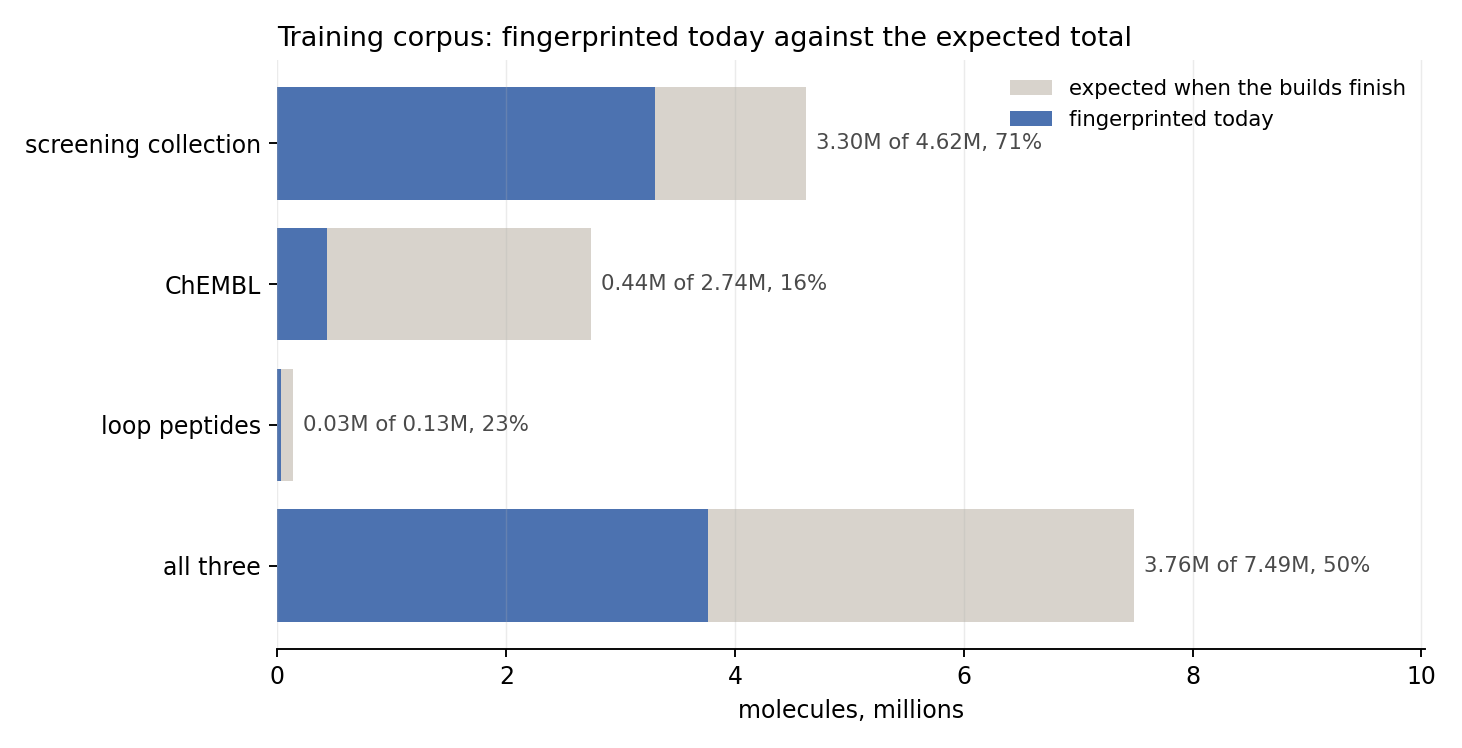
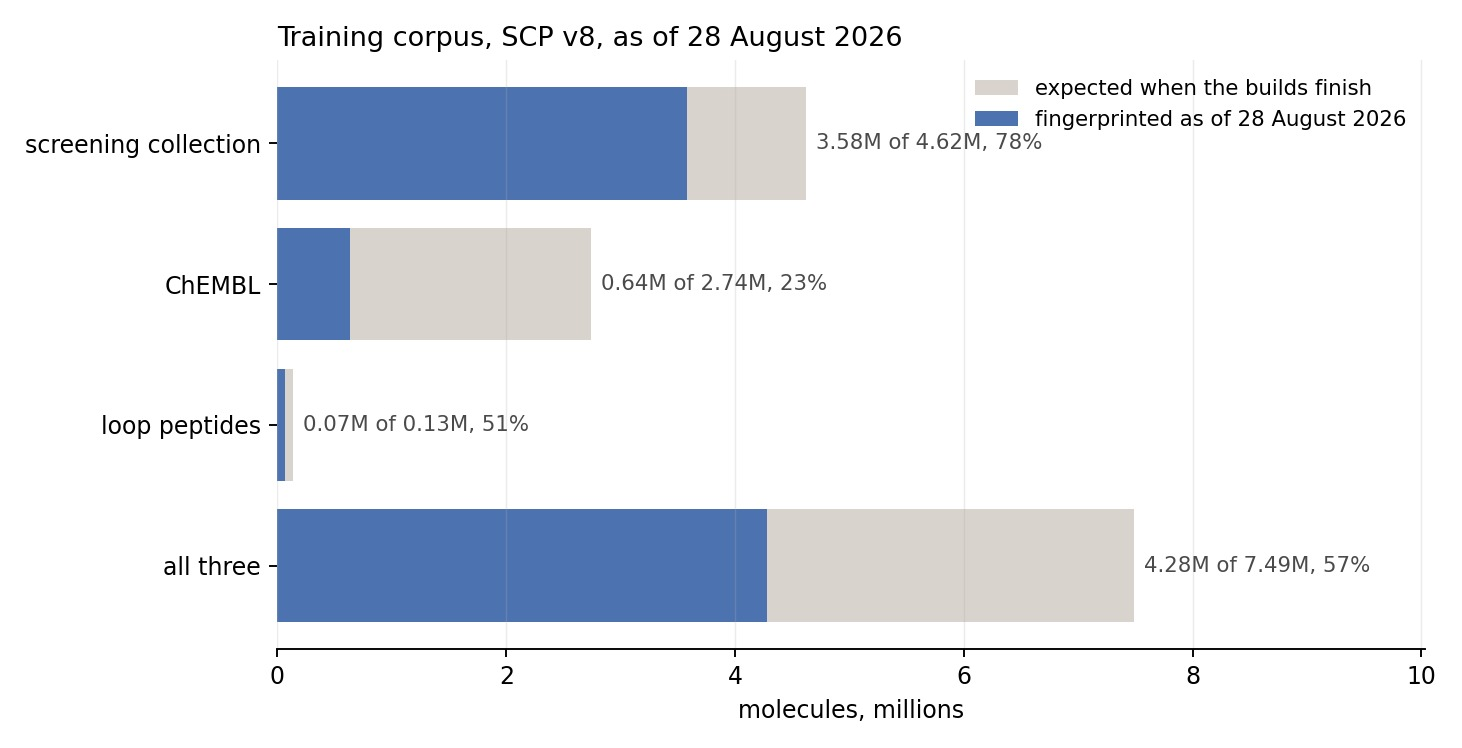
SCP v8 is the current model: README, figures and worked examples
The How it works figure, the fidelity-by-population panels, the per-molecule
MCC distribution, the 2D-independence panel and the corpus progress bars are
all regenerated on SCP v8 and match the 29 August 2026 preprint draft, which is
the ground truth for every figure here.

Every quoted number is re-measured on v8 rather than carried over. The worked
examples move: estradiol against diethylstilbestrol goes 0.479 to 0.680,
saquinavir against indinavir 0.859 to 0.897, paracetamol sets 47 pharmacophores
rather than 46.

v8 trained on a 4,282,423-molecule sealed snapshot, 4,239,599 of them used for
gradient updates, against 3,724,667 for the release it replaces. Same
architecture: 2,059 inputs, hidden 1,024 and 512, 10,549 outputs, 8,045,877
parameters. First model trained on the GPU.

The superseded release drops out of the weights table and into an archive on
the model page. It stays downloadable and its checksum stays in the
append-only SHA256SUMS, so older results remain reproducible, but it is no
longer presented beside the current model.

The head-to-head table is measured on ONE common held-out set that neither
model was trained on. Two separate post-snapshot runs are not a head to head:
each model draws its own set, which invented a peptide regression that does not
exist.

Claude-Session: https://claude.ai/code/session_018yuwM9UHB8D84Z4ULxPpUu

diff --git a/README.md b/README.md
@@ -65,9 +65,9 @@ what scaffold hopping looks like from inside the descriptor.*
 ensemble and runs the reference calculation over it. PharmCast predicts the same
 ensemble record from the two dimensional structure and skips the ensemble
 entirely. Panel E is saquinavir against indinavir, two HIV-1 protease
-inhibitors, scored by PharmCast SCP v7: the reference calculation gives a
-pharmacophoric similarity of 0.84 and PharmCast predicts 0.86, where a two
-dimensional Morgan Tanimoto puts the same pair at 0.30. That gap is the whole
+inhibitors, scored by PharmCast SCP v8: the reference calculation gives a
+pharmacophoric similarity of 0.841 and PharmCast predicts 0.897, where a two
+dimensional Morgan Tanimoto puts the same pair at 0.303. That gap is the whole
 point of the descriptor. The network is 2,059 inputs, hidden layers of 1,024 and
 512, and one output unit per pharmacophore, 10,549 in total, for 8,045,877
 parameters.*
@@ -108,33 +108,60 @@ checksummed, from **<https://pharmcast.ai/models>**.
 
 | Model | Endpoint | SHA-256 |
 |---|---|---|
-| **PharmCast SCP v7** (current) | [`/models/pharmcast_scp_v7.pt`](https://pharmcast.ai/models/pharmcast_scp_v7.pt) | `ad5aee5c…0b72d4aa8` |
+| **PharmCast SCP v8** (current) | [`/models/pharmcast_scp_v8.pt`](https://pharmcast.ai/models/pharmcast_scp_v8.pt) | `d1389037…ac8f42ab5` |
 | *(all releases, append-only)* | [`/models/SHA256SUMS`](https://pharmcast.ai/models/SHA256SUMS) | n/a |
 
+Superseded releases move to the **[archive](https://pharmcast.ai/models/#archive)**
+on the model page. They stay downloadable and their checksums stay in
+`SHA256SUMS`, so a result computed against one remains reproducible; they are
+not what new work should use.
+
 ```bash
-curl -O https://pharmcast.ai/models/pharmcast_scp_v7.pt
+curl -O https://pharmcast.ai/models/pharmcast_scp_v8.pt
 curl -O https://pharmcast.ai/models/SHA256SUMS
 shasum -a 256 -c SHA256SUMS                      # macOS / Linux
-certutil -hashfile pharmcast_scp_v7.pt SHA256    # Windows
+certutil -hashfile pharmcast_scp_v8.pt SHA256    # Windows
 ```
 
-**SCP v7 is the served and published model.** Earlier checkpoints are not
-distributed. Their checksums remain in `SHA256SUMS`, which is append-only, so a
+**SCP v8 is the current model.** Every number and every figure below is v8
+unless it is explicitly labelled otherwise. The previous release stays
+downloadable so that results computed against it remain reproducible, but it is
+not the subject of this document. Checkpoints older than that are not
+distributed; their checksums remain in `SHA256SUMS`, which is append-only, so a
 copy someone already holds still verifies.
 
-Everything measured below is a measurement of **SCP v7**, on molecules
-fingerprinted after its training corpus was sealed, which the model therefore
-cannot have seen.
+**Scores move between releases**, sometimes a long way, so quote the model
+alongside any number you take from here.
 
-On **25 approved-drug pairs with full reference pfpall ensembles** (100 ETKDGv3
-conformers, UFF relaxed, native binary):
+### What changed in v8
 
-| | mean abs. error | median abs. error | mean signed error |
-|---|---:|---:|---:|
-| **SCP v7** | **0.043** | **0.031** | +0.030 |
+Same architecture as v7 — 2,059 inputs, hidden layers of 1,024 and 512, 10,549
+outputs, 8,045,877 parameters — trained on a larger corpus. The snapshot was
+4,282,423 molecules (3,579,209 screening collection, 635,514 ChEMBL, 67,700
+peptides), of which 1% was held out as a molecular-weight-stratified stopping
+set, leaving 4,239,599 for gradient updates. 100 epochs; the epoch-66 weights
+were restored as the best stopping loss.
 
-The model reads slightly high. On formoterol/olodaterol the reference is 0.805
-and v7 says 0.799.
+It is also the first PharmCast model trained on the GPU (Apple MPS) rather than
+the CPU.
+
+**Against the model it replaces**, head to head on one common held-out set that
+neither was trained on, 5,000 molecules per population:
+
+| Population | Ranking acc. | Median error | Pearson *r* | Median MCC |
+|---|---:|---:|---:|---:|
+| Catalogue chemistry | 0.929 → **0.930** | 0.0160 → **0.0156** | 0.9751 → **0.9760** | 0.9077 → **0.9083** |
+| Loop peptides | 0.938 → **0.944** | 0.0200 → **0.0189** | 0.9752 → **0.9789** | 0.8964 → 0.8946 |
+| ChEMBL, activity backed | 0.880 → **0.889** | 0.0271 → **0.0245** | 0.9244 → **0.9366** | 0.8588 → **0.8685** |
+
+v8 is ahead on ranking accuracy, median error and Pearson *r* in every
+population. The single metric where it is not is per-molecule MCC on loop
+peptides, 0.8946 against 0.8964. The clearest gain is ChEMBL, where the corpus
+grew 46%.
+
+*The 25-approved-drug-pair test against full reference pfpall ensembles has not
+been re-run since v8 shipped; its last measurement was on the previous release
+and is omitted here rather than presented as current.*
 
 **A published checkpoint is never replaced in place.** A new release is added
 beside the old ones and `SHA256SUMS` is append-only, so a script pinned to a URL
@@ -148,21 +175,21 @@ Everything below is the command line. Install, download a model, run.
 ```bash
 pip install -e .
 # weights are served from the site, not committed; verify what you got
-curl -LO https://pharmcast.ai/models/pharmcast_scp_v7.pt
+curl -LO https://pharmcast.ai/models/pharmcast_scp_v8.pt
 curl -LO https://pharmcast.ai/models/SHA256SUMS
-shasum -a 256 -c SHA256SUMS 2>/dev/null | grep pharmcast_scp_v7
+shasum -a 256 -c SHA256SUMS 2>/dev/null | grep pharmcast_scp_v8
 ```
 
 Then fingerprint a file of SMILES:
 
 ```bash
-pharmcast --model pharmcast_scp_v7.pt fp --in examples/data/molecules.smi --out molecules.pfp
+pharmcast --model pharmcast_scp_v8.pt fp --in examples/data/molecules.smi --out molecules.pfp
 ```
 
 Compare two molecules:
 
 ```bash
-pharmcast --model pharmcast_scp_v7.pt sim \
+pharmcast --model pharmcast_scp_v8.pt sim \
   "C[C@]12CC[C@H]3[C@H](CCc4cc(O)ccc34)[C@@H]1CC[C@@H]2O" \
   'CC/C(=C(/CC)c1ccc(O)cc1)c1ccc(O)cc1'
 ```
@@ -170,14 +197,14 @@ pharmcast --model pharmcast_scp_v7.pt sim \
 See the bits:
 
 ```bash
-pharmcast --model pharmcast_scp_v7.pt bits "CC(=O)Nc1ccc(O)cc1" --width 120
+pharmcast --model pharmcast_scp_v8.pt bits "CC(=O)Nc1ccc(O)cc1" --width 120
 pfp2bits molecules.pfp --format positions
 ```
 
 And ask the model what it is:
 
 ```bash
-pharmcast --model pharmcast_scp_v7.pt card
+pharmcast --model pharmcast_scp_v8.pt card
 ```
 
 ## Worked examples
@@ -187,10 +214,10 @@ path and prints its own output; nothing needs editing first.
 
 ```bash
 cd examples
-./01_fingerprint.sh  /path/to/pharmcast_scp_v7.pt   # SMILES file -> native .pfp
-./02_similarity.sh   /path/to/pharmcast_scp_v7.pt   # 3D vs 2D similarity, three pairs
-./03_bits.sh         /path/to/pharmcast_scp_v7.pt   # fingerprints -> ones and zeros
-./04_model_card.sh   /path/to/pharmcast_scp_v7.pt   # corpus and applicability domain
+./01_fingerprint.sh  /path/to/pharmcast_scp_v8.pt   # SMILES file -> native .pfp
+./02_similarity.sh   /path/to/pharmcast_scp_v8.pt   # 3D vs 2D similarity, three pairs
+./03_bits.sh         /path/to/pharmcast_scp_v8.pt   # fingerprints -> ones and zeros
+./04_model_card.sh   /path/to/pharmcast_scp_v8.pt   # corpus and applicability domain
 ```
 
 `02_similarity.sh` is the one to run first. It scores three pairs **both ways**,
@@ -199,16 +226,17 @@ alone does not tell you anything:
 
 ```
                                       3D (PharmCast)   2D (Morgan)
-  estradiol / diethylstilbestrol      pharmacophore 0.479    2D 0.163
-  aspirin / salicylate                pharmacophore 0.379    2D 0.448
+  estradiol / diethylstilbestrol      pharmacophore 0.680    2D 0.163
+  aspirin / salicylate                pharmacophore 0.358    2D 0.448
   caffeine / ibuprofen                pharmacophore 0.000    2D 0.087
 ```
 
-*Numbers above are real output from `02_similarity.sh` on **SCP v7**, run
-27 August 2026. They move with the model: the same three pairs on the withdrawn
-SP v4 gave 0.5062, 0.4775 and 0.0000, and that stale transcript sat in this
-README until it was re-run. If your output differs, check the checkpoint's
-sha256 and your RDKit version before anything else.*
+*Numbers above are real output from `02_similarity.sh` on **SCP v8**, run
+28 August 2026. They move with the model, and the estradiol pair moved a long
+way: v7 gave 0.479, 0.379 and 0.000 for these three, and the withdrawn SP v4
+gave 0.5062, 0.4775 and 0.0000. A stale transcript sat in this README once
+already. If your output differs, check the checkpoint's sha256 and your RDKit
+version before anything else.*
 
 Estradiol and diethylstilbestrol are unrelated in 2D and bind the same receptor.
 That gap between the columns is the scaffold hop, and it is the whole reason to
@@ -265,37 +293,40 @@ number derived from different typing would be worse than writing none.
 
 ```
 $ pfp2bits library.pfp --width 120
->paracetamol  set=46/10549  version=v1.6  mw=151.2  heavy=11  bits=46  rotb=1  nconf=100
+>paracetamol  set=47/10549  version=v1.6  mw=151.2  heavy=11  bits=47  rotb=1  nconf=100
 111000101000100001000000000000000000001000000000000000000000000000000000000000000000111000110100011000001000000000000000
 ```
 
 It loads no model, because the fingerprints are already in the file.
 
-*Bit counts above are **SCP v7**, 27 August 2026. `--width 120` prints the first
+*Bit counts above are **SCP v8**, 28 August 2026. `--width 120` prints the first
 120 of 10,549 pharmacophores, so it is a prefix and not a short fingerprint —
 the same molecule on <https://pharmcast.ai/fingerprint.html> prints all 10,549
-and begins with these same 120 characters. The counts move with the model: the
-withdrawn SP v4 set 43 pharmacophores here rather than 46.*
+and begins with these same 120 characters. The counts move with the model: v7 set 46
+pharmacophores here and the withdrawn SP v4 set 43.*
 
 ---
 
 ## Accuracy
 
-**PharmCast SCP v7**, measured on molecules fingerprinted after its training
-corpus was sealed, so the model cannot have seen them. 900 molecules and 1,200
-pairs per population.
+**PharmCast SCP v8**, measured on molecules fingerprinted after its training
+corpus was sealed, so the model cannot have seen them. 5,000 molecules per
+population, all pairs within each.
 
-| Population | Pairs | Median error | Pearson *r* | Within 0.05 |
-|---|---:|---:|---:|---:|
-| Catalogue chemistry | 1,200 | 0.017 | 0.974 | 89.3% |
-| Loop peptides | 1,200 | 0.019 | 0.972 | 84.8% |
-| ChEMBL, activity backed | 1,200 | 0.024 | 0.935 | 78.7% |
-| **All three combined** | **3,600** | **0.020** | **0.968** | **84.2%** |
-| *Reference against itself* | | *0.006* | *0.995* | *ceiling* |
+| Population | Pairs | Ranking acc. | Median error | Pearson *r* | Within 0.05 |
+|---|---:|---:|---:|---:|---:|
+| Catalogue chemistry | 12,497,500 | 0.930 | 0.016 | 0.976 | 91.5% |
+| Loop peptides | 12,497,500 | 0.943 | 0.019 | 0.979 | 84.2% |
+| ChEMBL, activity backed | 12,497,500 | 0.889 | 0.025 | 0.936 | 77.9% |
+| **All three combined** | **37,492,500** | | **0.019** | **0.972** | **84.5%** |
+| *Reference against itself* | | | *0.006* | *0.995* | *ceiling* |
 
-Per fingerprint rather than per pair, over 30,000 held-out catalogue molecules:
-**median MCC 0.909**, mean 0.898, against a ligand-blind baseline of 0.602. The
-model sets 543.6 pharmacophores on average where the reference sets 540.5.
+Ranking accuracy is the fraction of molecule triples the model orders the same
+way the reference does, exact ties excluded.
+
+Per fingerprint rather than per pair, on the same held-out molecules: **median
+MCC 0.909** for catalogue chemistry, 0.894 for loop peptides and 0.868 for
+ChEMBL.
 
 That ceiling row sets the scale. Rebuilding the same molecules with a different
 embedding seed reproduces pair similarity to 0.006 at *r* 0.995, so the
@@ -303,17 +334,18 @@ reference calculation agrees with itself an order of magnitude more tightly than
 PharmCast agrees with it. **The ground truth is not the problem**, and 0.006 is
 the floor no surrogate can beat.
 
-![Predicted against real pairwise PFP Tanimoto for PharmCast SCP v7, coloured by population: catalogue chemistry, ChEMBL activity backed, and loop peptides, all following the diagonal](assets/fidelity-by-population.jpg)
+![Predicted against real pairwise PFP Tanimoto for PharmCast SCP v8, coloured by population: catalogue chemistry, ChEMBL activity backed, and loop peptides, all following the diagonal](assets/fidelity-by-population.jpg)
 
-*PharmCast SCP v7. Predicted against real pairwise similarity on held out
+*PharmCast **SCP v8**. Predicted against real pairwise similarity on held out
 molecules, by population. The dashed line is exact agreement. Catalogue
 chemistry and loop peptides sit tight to it; ChEMBL compounds are the widest of
 the three.*
 
-![Per-molecule Matthews correlation coefficient between the predicted and the real fingerprint for PharmCast SCP v7](assets/per-molecule-mcc.jpg)
+![Per-molecule Matthews correlation coefficient between the predicted and the real fingerprint for PharmCast SCP v8](assets/per-molecule-mcc.jpg)
 
 *How closely each individual predicted fingerprint matches the real one, as the
-Matthews correlation coefficient per molecule.*
+Matthews correlation coefficient per molecule. **SCP v8**, median 0.909 on
+catalogue chemistry; 0.894 on loop peptides and 0.868 on ChEMBL.*
 
 ### It is not re-deriving 2D similarity
 
@@ -322,10 +354,8 @@ Matthews correlation coefficient per molecule.*
 *Predicted against real pairwise similarity, coloured by two dimensional Morgan
 similarity, green for the most dissimilar pairs through red for the least.
 Agreement does not depend on 2D similarity, so the model is predicting three
-dimensional feature geometry rather than restating its own input. PharmCast SCP
-v7 on 5,000 held-out screening collection molecules, 24,664 pairs stratified
-into five 2D bands. Pearson within the bands is 0.972, 0.973, 0.976, 0.978 and
-0.973 from the least 2D similar to the most. That flatness is the claim the
+dimensional feature geometry rather than restating its own input. PharmCast **SCP v8** on held-out molecules stratified into five 2D bands. Pearson within the bands is 0.973, 0.976, 0.978, 0.980 and
+0.975 from the least 2D similar to the most. That flatness is the claim the
 panel makes.*
 
 ## Applicability domain: read this before trusting a score
@@ -358,17 +388,17 @@ A model card that hides its failure mode is worse than no model card.
 
 Where the three corpora stand today:
 
-| Corpus | Fingerprinted today | Expected total | Complete |
+| Corpus | At the SCP v8 snapshot | Expected total | Complete |
 |---|---:|---:|---:|
-| Screening collection | 3,296,466 | 4,617,292 | 71.4% |
-| ChEMBL | 435,314 | 2,737,190 † | 15.9% |
-| Loop peptides | 30,800 | 132,878 | 23.2% |
-| **All three** | **3,762,580** | **7,487,360** | **50.3%** |
+| Screening collection | 3,579,209 | 4,617,292 | 77.5% |
+| ChEMBL | 635,514 | 2,737,190 † | 23.2% |
+| Loop peptides | 67,700 | 132,878 | 50.9% |
+| **All three** | **4,282,423** | **7,487,360** | **57.2%** |
 
-![Bar chart of each corpus, fingerprinted today against the expected total: screening collection 71.4%, ChEMBL 15.9%, loop peptides 23.2%](assets/corpus-progress.jpg)
+![Bar chart of each corpus at the SCP v8 sealed snapshot against the expected total: screening collection 77.5%, ChEMBL 23.2%, loop peptides 50.9%](assets/corpus-progress.jpg)
 
-**The finished training set is expected to be 7,487,360 molecules**, about twice
-the size of the corpus SCP v7 was trained on. **Half of it is fingerprinted
+**The finished training set is expected to be 7,487,360 molecules**, and SCP v8
+was trained on 4,282,423 of them. **Well over half of it is fingerprinted
 today.** The growth is not evenly distributed: the screening
 collection is most of the mass, while ChEMBL is the least complete and grows the
 most in proportion. Every molecule is fingerprinted with
@@ -389,33 +419,37 @@ same 6,000-molecule sample from each, because nearest-neighbour similarity rises
 with sample size and unequal samples cannot be compared.* ChEMBL selection is still running, so its expected
 total is an estimate and will move.
 
-SCP v7 trained on a 3,724,667-molecule snapshot:
+SCP v8 trained on a 4,282,423-molecule snapshot, of which 4,239,599 were used
+for gradient updates and 42,824 reserved for early stopping:
 
 | Corpus | Molecules | Share |
 |---|---:|---:|
-| Screening collection | 3,263,245 | 87.61% |
-| ChEMBL, activity backed | 430,915 | 11.57% |
-| Protein loop peptides | 30,507 | 0.82% |
+| Screening collection | 3,579,209 | 83.58% |
+| ChEMBL, activity backed | 635,514 | 14.84% |
+| Protein loop peptides | 67,700 | 1.58% |
+
+For comparison, SCP v7 trained on 3,724,667: 3,263,245 screening collection,
+430,915 ChEMBL, 30,507 loop peptides.
 
 Its output layer is 10,549 wide, one per pharmacophore.
 
 ### The training set is still being built
 
 **This is work in progress, not a finished system.** All three corpora are still
-being fingerprinted: 3,326,264 of an expected 7,487,360 molecules, **44%**.
-SCP v7 is the current model, trained on a 3,724,667-molecule snapshot taken
-along the way: 3,263,245 screening collection, 430,915 ChEMBL, 30,507 loop
-peptides.
+being fingerprinted. SCP v8 is the current model, trained on a
+4,282,423-molecule snapshot taken along the way against an expected final
+corpus of about 7,493,816.
 
-**Work continues toward v8 and beyond.** No model here is a release
+**Work continues toward v9 and beyond.** No model here is a release
 candidate, and none will be until the corpora are complete. A preprint
 describing the finished work is being written.
 
 Each version is published beside its predecessors and never replaces one, so a
 result computed against a given version stays reproducible.
 
-**SCP v7 reserves a holdout split** of 37,623 molecules, used only for early
-stopping, and the released weights are the epoch-57 ones restored after the run.
+**SCP v8 reserves a stopping split** of 42,824 molecules, 1% of the snapshot
+stratified by molecular weight, used only for early stopping, and the released
+weights are the epoch-66 ones restored after the run.
 Accuracy is then measured on a separate population: molecules fingerprinted
 *after* the training corpus was sealed, which the model cannot have seen.
 
@@ -477,7 +511,9 @@ attribution those sources ask for.
 ## White paper
 
 The full method description, with the corpus construction, the evaluation
-protocol and every figure, is current on SCP v7.
+protocol and every figure, **is current on SCP v7, not v8.** Its figures come
+from the preprint draft, which has not been re-run on v8 yet. The v8 numbers are
+in this README and on <https://pharmcast.ai/models>.
 
 **Read it at <https://pharmcast.ai/whitepaper/>**, or open
 [`docs/whitepaper.pdf`](docs/whitepaper.pdf), which GitHub renders inline.
